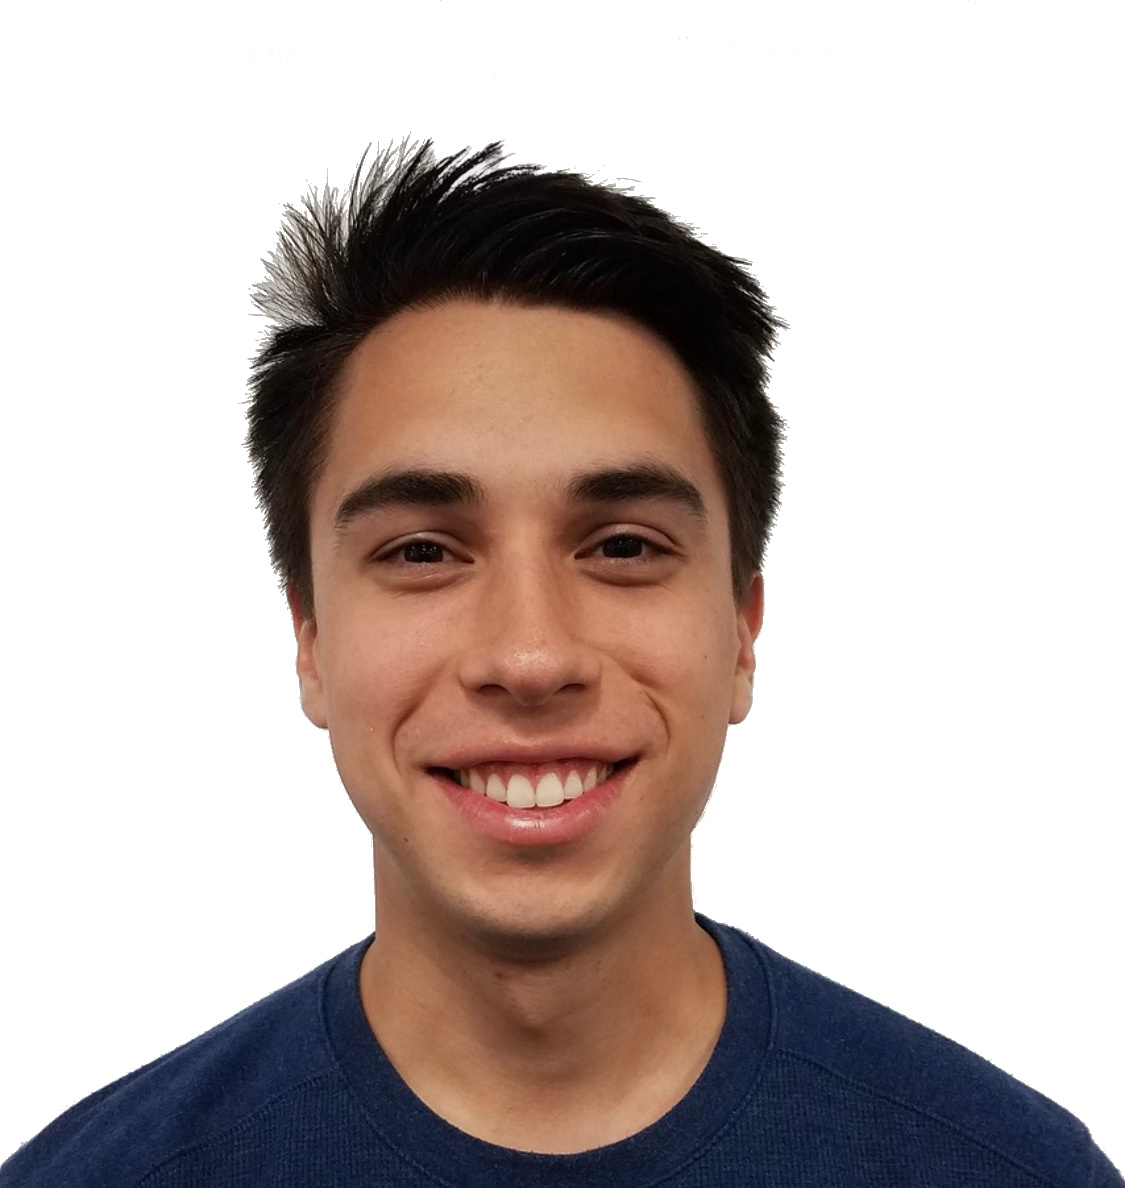
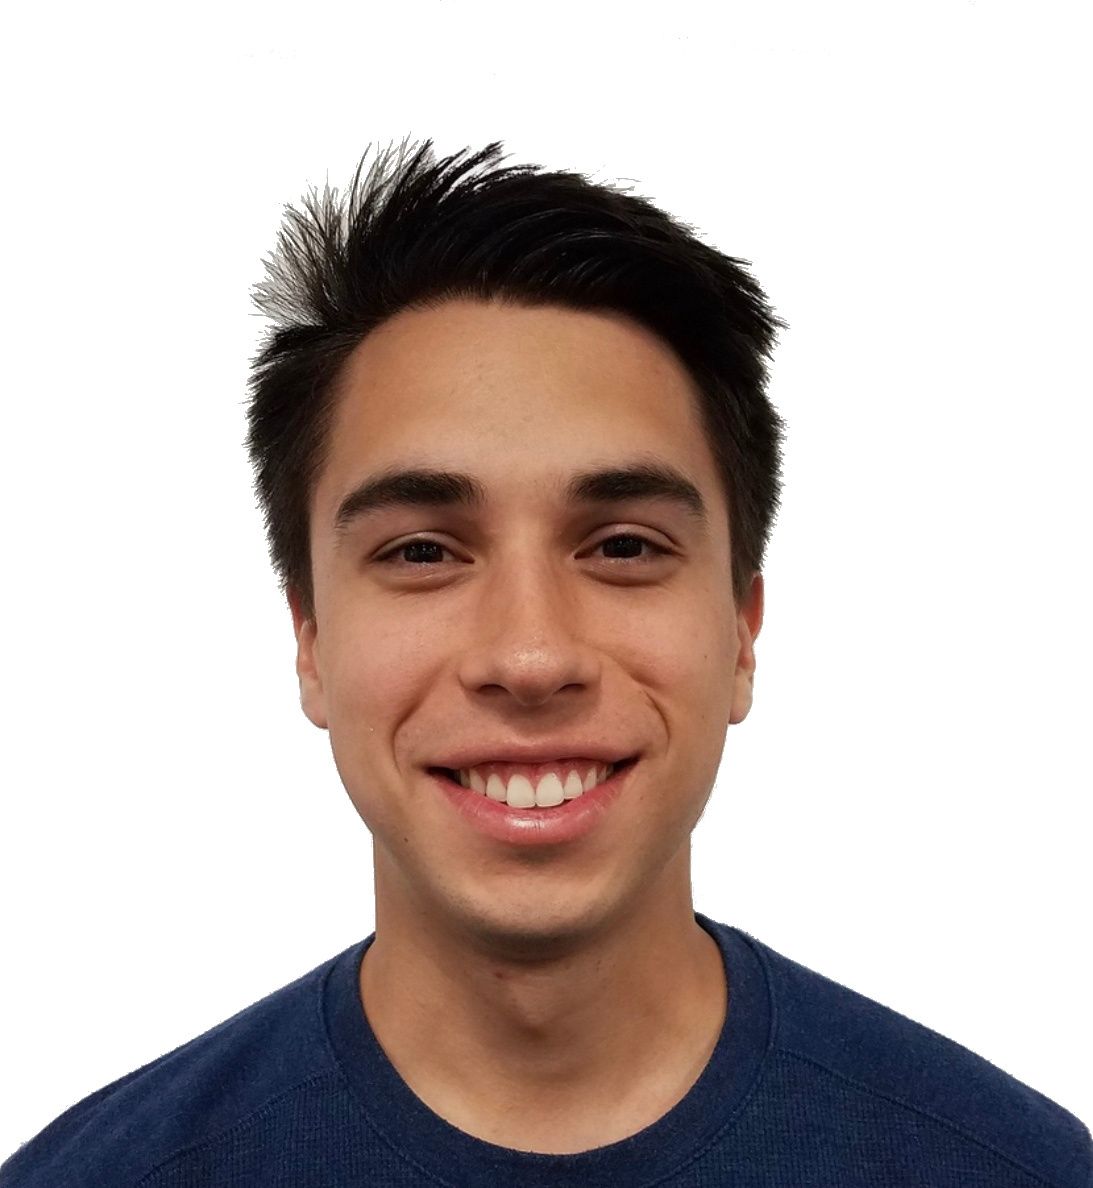
Finished css and edited some text in html. cropped headshot.

diff --git a/index.html b/index.html
@@ -6,6 +6,7 @@
     <meta name="viewport" content="width=device-width, initial-scale=1.0">
     <title>Portfolio</title>
     <link rel="stylesheet" type="text/css" href="//cdnjs.cloudflare.com/ajax/libs/normalize/6.0.0/normalize.css">
+    <link href="https://fonts.googleapis.com/css2?family=Abel&family=Josefin+Sans&display=swap" rel="stylesheet"> 
     <link rel="stylesheet" type="text/css" href="main.css">
 </head>
 
@@ -20,10 +21,12 @@
         <span style="font-size:30px;cursor:pointer" onclick="openNav()" class="openbtn openclose">&#9776; open</span>
         <section id="austin" class="austin-kellogg viewbox">
             <h2>Austin Kellogg</h2>
-            <img class="headshot" src="images/headshot.jpg" alt="Headshot of me">
-            <p>
-                Hi, I’m Austin. I’m a software developer and design fanatic.
-            </p>
+            <div class="headliner">
+                <img class="headshot" src="images/headshot.jpg" alt="Headshot of me">
+                <p>
+                    Hi, I’m Austin. I’m a developing software developer and science fanatic.
+                </p>
+            </div>
             <div class="social-media">
                 <ul class="social-elements">
                     <li><a target="_new" href="https://github.com/KidKellogg">GitHub</a></li>
@@ -33,18 +36,25 @@
                 </ul>
             </div>
         </section>
+        <hr>
         <section id="about" class="about viewbox">
             <h2>About</h2>
             <p>
-                I am a web developer and future graduate of the Software Engineering Career Path bootcamp at Thinkful. I grew to love coding because there’s nothing better than seeing your thought and effort develop into something tangible that you can actually use. </br>
+                I am a web developer and future graduate of the Software Engineering Career Path bootcamp at Thinkful. I grew to love coding because there’s nothing better than seeing your thought and effort develop into something tangible that you can actually use. It's also a chance to work with a team of diverse and motivated people.</br>
                 I originally graduated college with a degree in Physics and was naturally drawn to coding as a logical adaption of my math and problem solving skills. When I’m not coding, I like to be behind a stringed instrument or keyboard laying down some hot tracks, or out and about exploring the town.
             </p>
         </section>
+        <hr>
         <section id="projects">
             <h2>Projects</h2>
             <h3>Mollusk Quiz App</h3>
             <img class="project-image" src="images/molluskquiz.png" alt="screenshot of mollusk quiz app">
             <p>This is a simply designed application to display an interactive quiz. It’s one of my earliest works and was an integral part of my learning process.</p>
+            <p>HTML, CSS, Javascript, and jQuery were used in this project.</p>
+            <ul class="links">
+                <li><a target="_new" href="https://github.com/KidKellogg/quiz-app-implementation">GitHub</a></li>
+                <li><a target="_new" href="https://kidkellogg.github.io/quiz-app-implementation/">Live</a></li>
+            </ul>   
         </section>
         <script>
             function openNav() {

diff --git a/main.css b/main.css
@@ -1,5 +1,11 @@
-html {
+/*
+    font-family: 'Abel', sans-serif;
+    font-family: 'Josefin Sans', sans-serif;
+*/
+
+* {
     scroll-behavior: smooth;
+    font-family: 'Josefin Sans', sans-serif;
 }
 
 body {
@@ -21,12 +27,29 @@ main {
     font-size: 20px;
 }
 
+h2 {
+    font-family: 'Abel', sans-serif;
+    font-size: 40px;
+    color: #ef7f2f;
+}
+
+hr {
+    display: block;
+    margin-top: 0.5em;
+    margin-bottom: 0.5em;
+    margin-left: auto;
+    margin-right: auto;
+    border-style: double;
+    border-width: 5px;
+    color: #ef7f2f;
+  }
+
 section {
     margin-top: 10px;
     margin-bottom: 10px;
     padding: 10px;
     
-    height: 100%;
+    height: 75%;
     display: flex;
     flex-direction: column;
 }
@@ -35,22 +58,59 @@ section p {
     width: 100%;
 }
 
+.headliner {
+    display: inline-flex;
+}
+
+.headliner p {
+    text-align: center;
+}
+
 .social-elements {
     list-style: none;
     display: flex;
     flex-direction: row;
     justify-content: space-around;
     padding: 0px;
+    background-color: #4c5454;
+    margin-top: 35%;
 }
 
 .social-elements li {
     display: inline;
     padding: 20px;
+    text-decoration: none;
+}
+
+.social-elements li a {
+    color: #ff4f92;
+}
+
+.social-elements li a:visited {
+    color: #e9ff70;
 }
 
 .headshot {
-    max-width: 120px;
+    max-width: 200px;
+    max-height: 200px;
+    width: auto;
+    height: auto;
     border-radius: 50%;
+    padding: 25px;
+}
+
+.links li {
+    display: inline;
+    padding: 20px;
+    text-decoration: none;
+}
+
+.links li a {
+    color: #ff4f92;
+}
+
+.links li a:visited {
+    color: #e9ff70;
 }
 
 .project-image {
@@ -113,6 +173,11 @@ section p {
         margin-left: 0;
     }
 
+    .headshot {
+        max-width: 120px;
+        max-height: 120px;
+    }
+
     .social-elements {
         flex-direction: column;
     }
@@ -153,5 +218,9 @@ section p {
         right: 25px;
         font-size: 36px;
         margin-left: 50px;
+    }
+
+    .project-image {
+        max-width: 100%;
     }
 }
